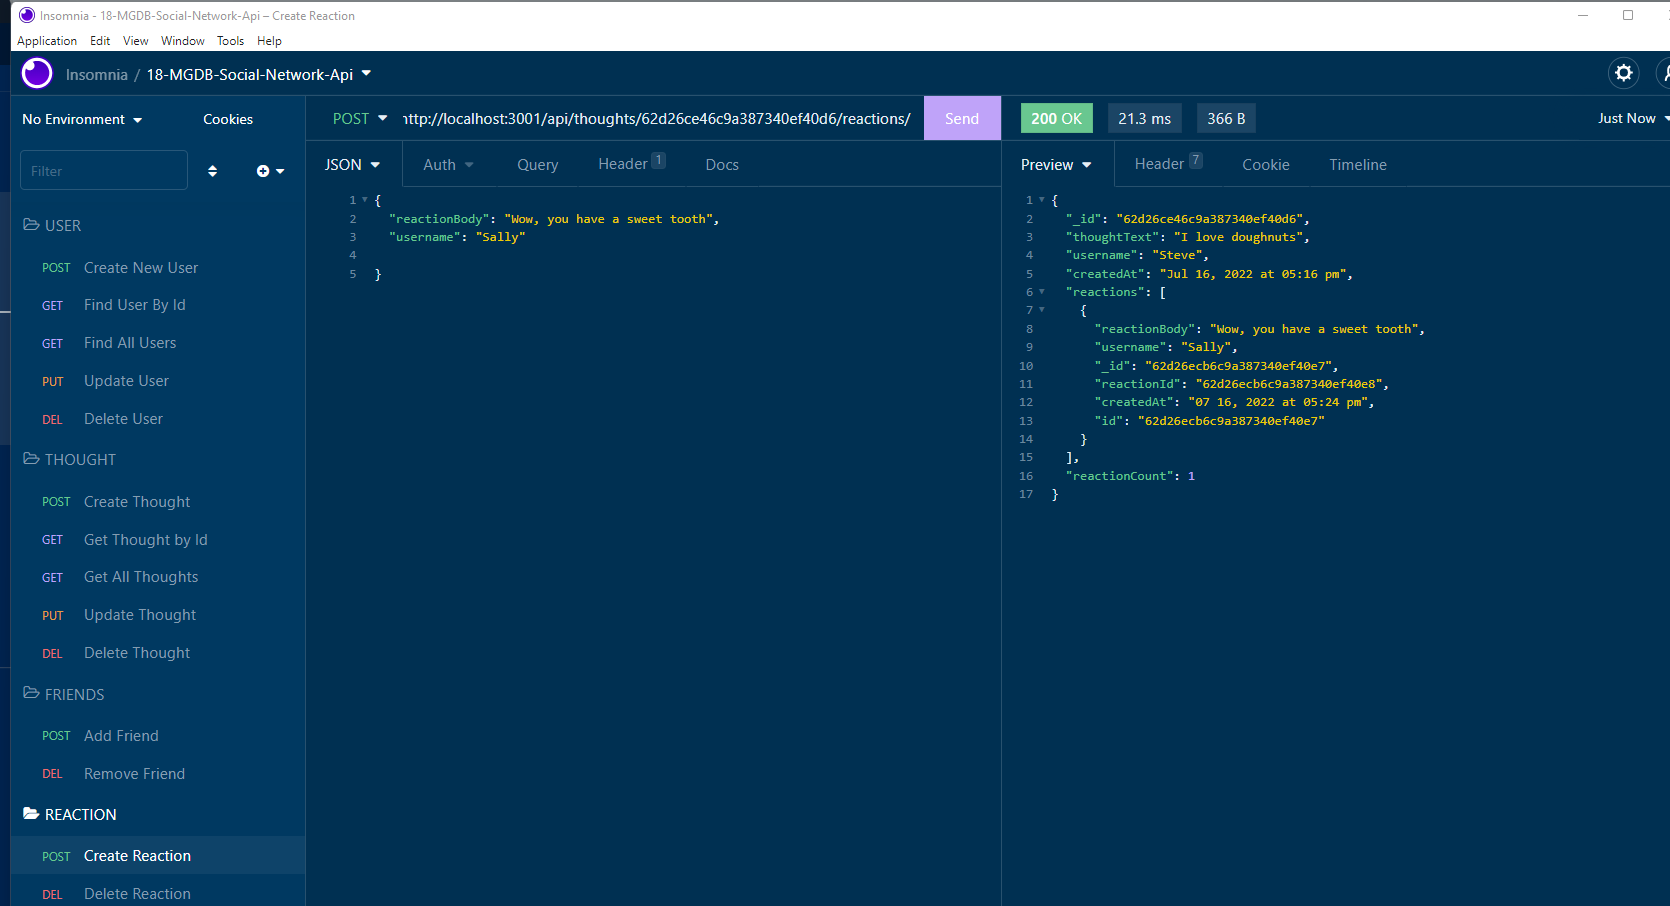
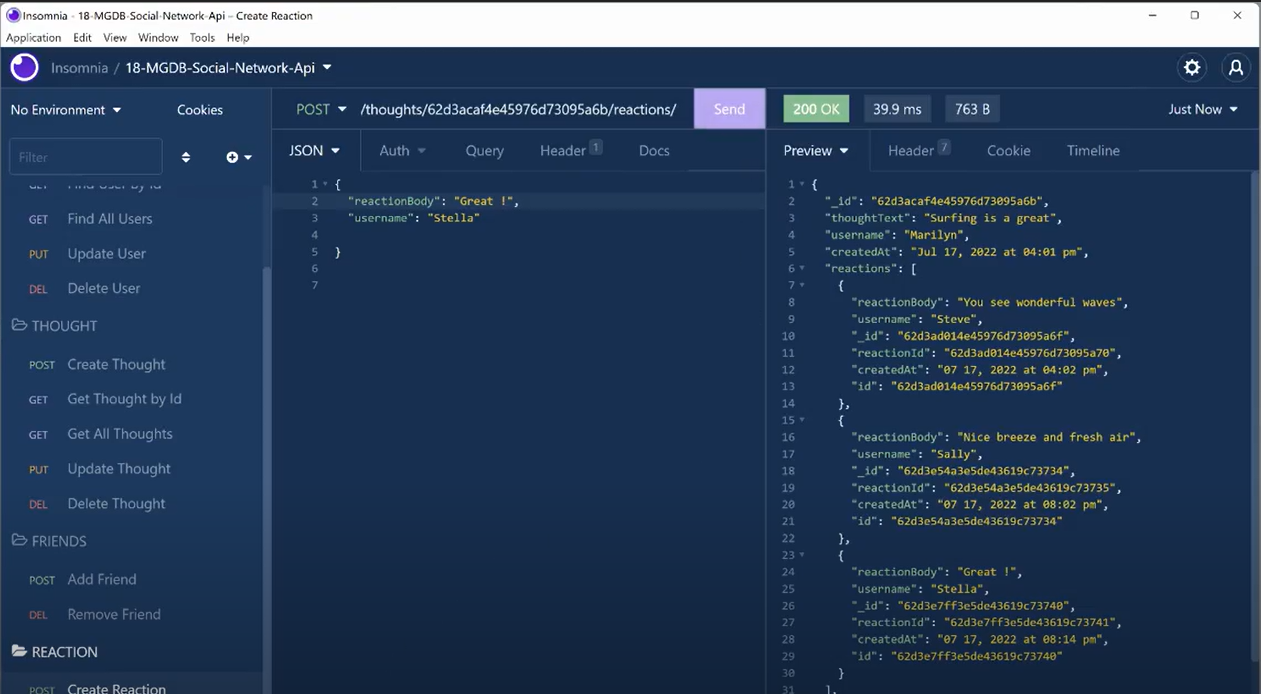
add screenshots and update comments in the usage section of the README

diff --git a/README.md b/README.md
@@ -135,15 +135,26 @@ The repository name is **18-MGDB-Social-Network-API.**
 
 *   When the user test the API POST and DELETE routes in Insomnia, the user is able to successfully create and delete reactions to thoughts, add and remove friends to a user's friends list.
 
+*POST -  Add Friend*
+![alt text](/assets/AddFriend.png)
 
+*DEL -  Remove Friend*
+![alt text](/assets/RemoveFriend.png)
 
+*POST -  Create Reaction*
+![alt text](/assets/CreateReaction.png)
+
+*DEL -  Delete Reaction*
+![alt text](/assets/DeleteReaction.png)
+
+*  The user would also be able to see the data synced to MongoDB database, for example, the thoughts and reactions.
+![alt text](/assets/MongoDB3.png)
 
 ## References
 *  Request - Response : The Full Stack Blog - How to install MongoDB dated July 01, 2022
 *  Introduction to Mongoose for MongoDB by Nick Karnik dated February 11, 2018
 *  Module 18 Coding Boot Camp  - NoSQL
 *  MongoDB Crash Course - Traversy Media
-
 
 ## License
 
